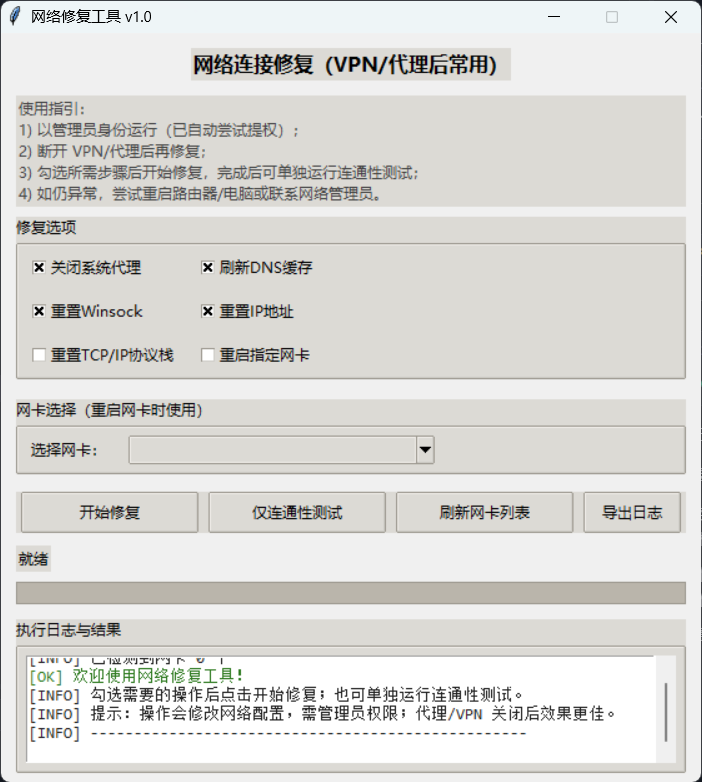
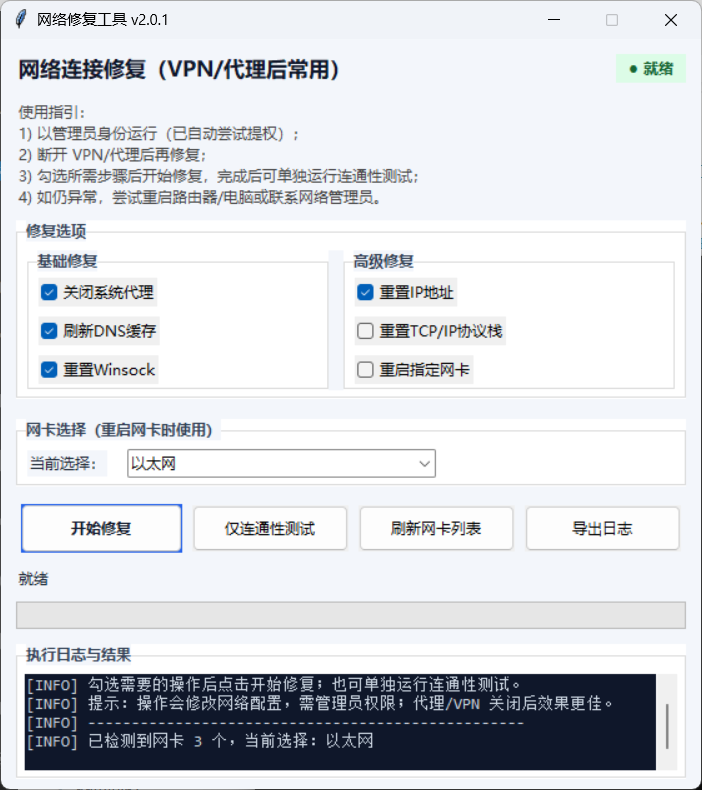
release: v2.0.1 with auto-release workflow and UI polish

diff --git a/networkfixer/__init__.py b/networkfixer/__init__.py
@@ -5,5 +5,5 @@ A lightweight network repair tool for Windows, designed to resolve
 network issues after VPN/proxy software is closed.
 """
 
-__version__ = "2.0.0"
+__version__ = "2.0.1"
 __author__ = "HYGUO1993"

diff --git a/networkfixer/ui/app.py b/networkfixer/ui/app.py
@@ -23,7 +23,7 @@ from ..i18n import t, detect_system_language
 
 logger = logging.getLogger(__name__)
 
-__version__ = "2.0.0"
+__version__ = "2.0.1"
 
 
 class NetworkFixerApp:

diff --git a/ARCHIVE_RECOMMENDATIONS.md b/ARCHIVE_RECOMMENDATIONS.md
@@ -1,0 +1,42 @@
+# 本地归档与清理建议（2026-02-23）
+
+## 结论摘要
+
+当前仓库没有必须立即归档的“旧核心代码”。
+建议优先做两类处理：
+1) 清理构建产物（不入库）
+2) 将阶段性文档标记为历史文档（按需归档）
+
+## 一、建议清理（构建产物，不归档）
+
+这些文件/目录是可再生成内容，建议保留本地即可，不提交 Git：
+
+- `build/`
+- `dist/`
+- `__pycache__/`
+- `NetworkFixer.spec`（由 PyInstaller 命令自动生成，且 `.gitignore` 已忽略 `*.spec`）
+
+## 二、建议作为“历史文档”归档（可选）
+
+以下文档属于阶段性产物，若后续进入稳定维护期，可移动到 `docs/archive/`：
+
+- `REFACTOR_PLAN.md`（重构规划文档）
+- `IMPLEMENTATION_LOG.md`（实施过程日志）
+- `PERFORMANCE_OPTIMIZATIONS.md`（阶段优化说明）
+
+建议保留：
+- `README.md`（当前主文档）
+- `CHANGELOG.md`（版本记录）
+- `RELEASE_NOTES_v2.0.1.md`（当前发布说明）
+
+## 三、代码层面归档候选（可选）
+
+- `test_optimizations.py`
+  - 当前偏“历史性能验证脚本”，且部分逻辑仍基于早期单文件实现。
+  - 若后续使用 pytest 体系，可移动到 `tools/archive/` 或 `docs/archive/scripts/`，并在 README 标注其历史属性。
+
+## 四、建议执行顺序
+
+1. 先发布 `v2.0.1`。
+2. 发布后在新分支做文档归档（避免影响本次 Release）。
+3. 完成归档后更新 README 的文档索引路径。

diff --git a/RELEASE_NOTES_v2.0.1.md b/RELEASE_NOTES_v2.0.1.md
@@ -1,0 +1,47 @@
+# NetworkFixer v2.0.1
+
+发布日期：2026-02-23
+
+## 亮点
+
+- 修复主按钮在部分 Windows 主题下文字不可见的问题。
+- 修复按钮区最后一个按钮过窄的问题，统一为四列等宽布局。
+- 选项区升级为更紧凑的两栏卡片布局（基础修复 / 高级修复）。
+- 新增顶部状态徽标，实时显示执行状态（就绪/执行中/测试中/已完成/异常/已取消）。
+
+## 文档与发布一致性
+
+- 同步更新 `README.md`、`CHANGELOG.md`、`IMPLEMENTATION_LOG.md`、`PERFORMANCE_OPTIMIZATIONS.md`、`REFACTOR_PLAN.md`。
+- 版本号统一升级为 `2.0.1`：
+  - `networkfixer/__init__.py`
+  - `networkfixer/ui/app.py`
+  - `pyproject.toml`
+
+## 兼容性
+
+- 运行时仍为 Python 标准库，无新增外部依赖。
+- 支持 Windows 环境（Python 3.8+）。
+
+## 升级建议
+
+- 普通用户：下载 `v2.0.1` Release 附件并覆盖旧版本。
+- 开发者：拉取最新代码后重新打包。
+
+## 打包命令
+
+```powershell
+pip install -r requirements.txt
+pyinstaller --noconfirm --clean --windowed --name NetworkFixer fix_network.py
+```
+
+## Git 标签与发布建议
+
+```powershell
+git add .
+git commit -m "release: v2.0.1"
+git tag -a v2.0.1 -m "NetworkFixer v2.0.1"
+git push origin main
+git push origin v2.0.1
+```
+
+发布 GitHub Release 时可直接粘贴本文件内容。

diff --git a/CHANGELOG.md b/CHANGELOG.md
@@ -1,5 +1,19 @@
 # 更新日志 (Changelog)
 
+## [v2.0.1] - 2026-02-23
+
+### ✨ 界面改进 (UI)
+- 修复主按钮在部分主题下文字不可见的问题。
+- 修复按钮区最后一个按钮被挤压过窄的问题，改为四列等宽布局。
+- 将修复选项区升级为更紧凑的两栏卡片布局（基础修复 / 高级修复）。
+- 新增顶部状态徽标，实时显示就绪、执行中、测试中、完成、异常状态。
+
+### 📝 文档同步 (Docs)
+- 同步更新 README、重构计划、实施日志与性能说明文档，确保版本与结构一致。
+
+### ✅ 兼容性
+- 不引入新的运行时依赖，继续保持纯标准库运行。
+
 ## [v2.0.0] - 2026-02-23
 
 ### 🚀 重构 (Refactor)
